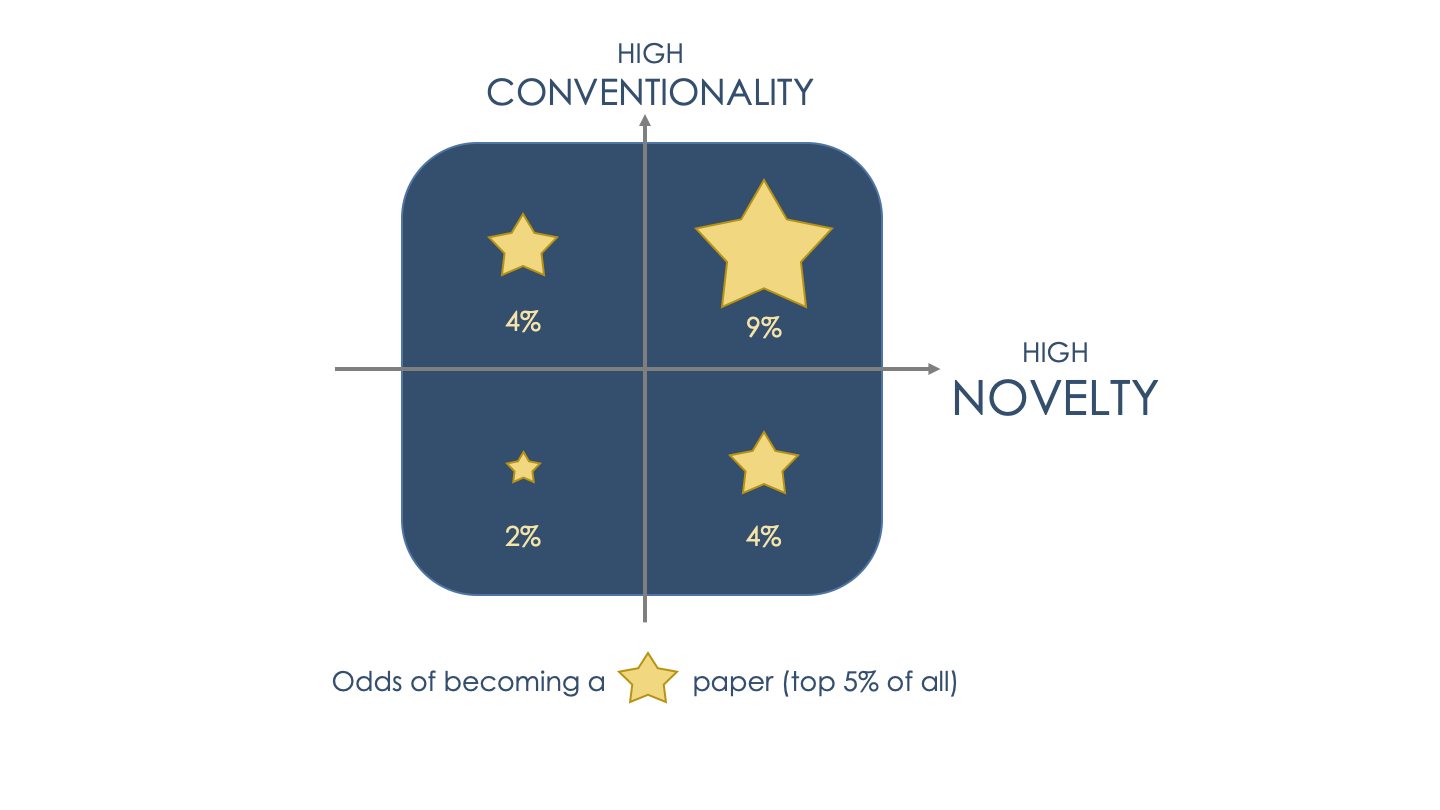
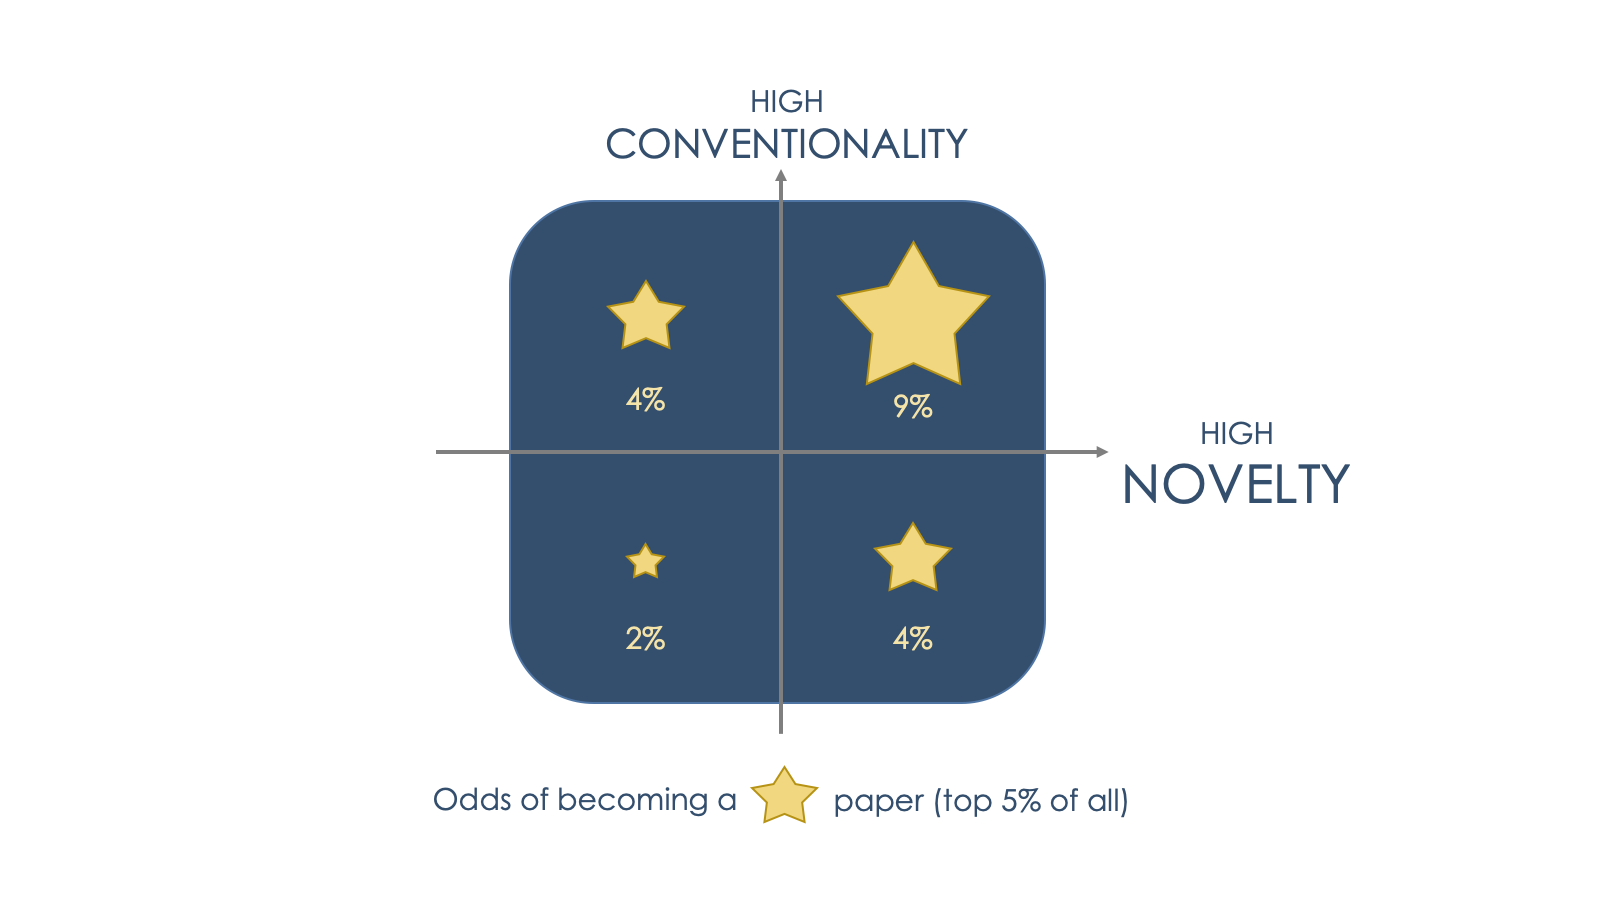
Craft...

Changed region(s): [[0.2188, 0.0309, 0.8438, 0.9259], [0.375, 0.6173, 0.4375, 0.6481]]

diff --git a/_posts/2020-06-01-novelty.md b/_posts/2020-06-01-novelty.md
@@ -22,7 +22,7 @@ At the first sight, novelty appears to be an arbitrary blurry concept, but it co
 
 Rules emerge from an immense web of publication records. Highly novel publications, compared to less novel counterparts, are more likely to be a popular star in the years to come. Especially those who combine novelty and are deep rooted in a conventional field.
 
-<img src="/images/DP2/Slide1.png" alt="DP2_00" style="zoom:67%;" />
+<img src="/images/DP2/Slide1.png" alt="DP2_00" style="zoom:75%;" />
 
 Where are the  novel publications published? Academic papers are much too often assessed by the journals they are published. The more prestigious the journal, the better. Unfortunately, highly novel papers statistically wind up in journals with lower impact factors, that is, ones with lower reputation.
 
